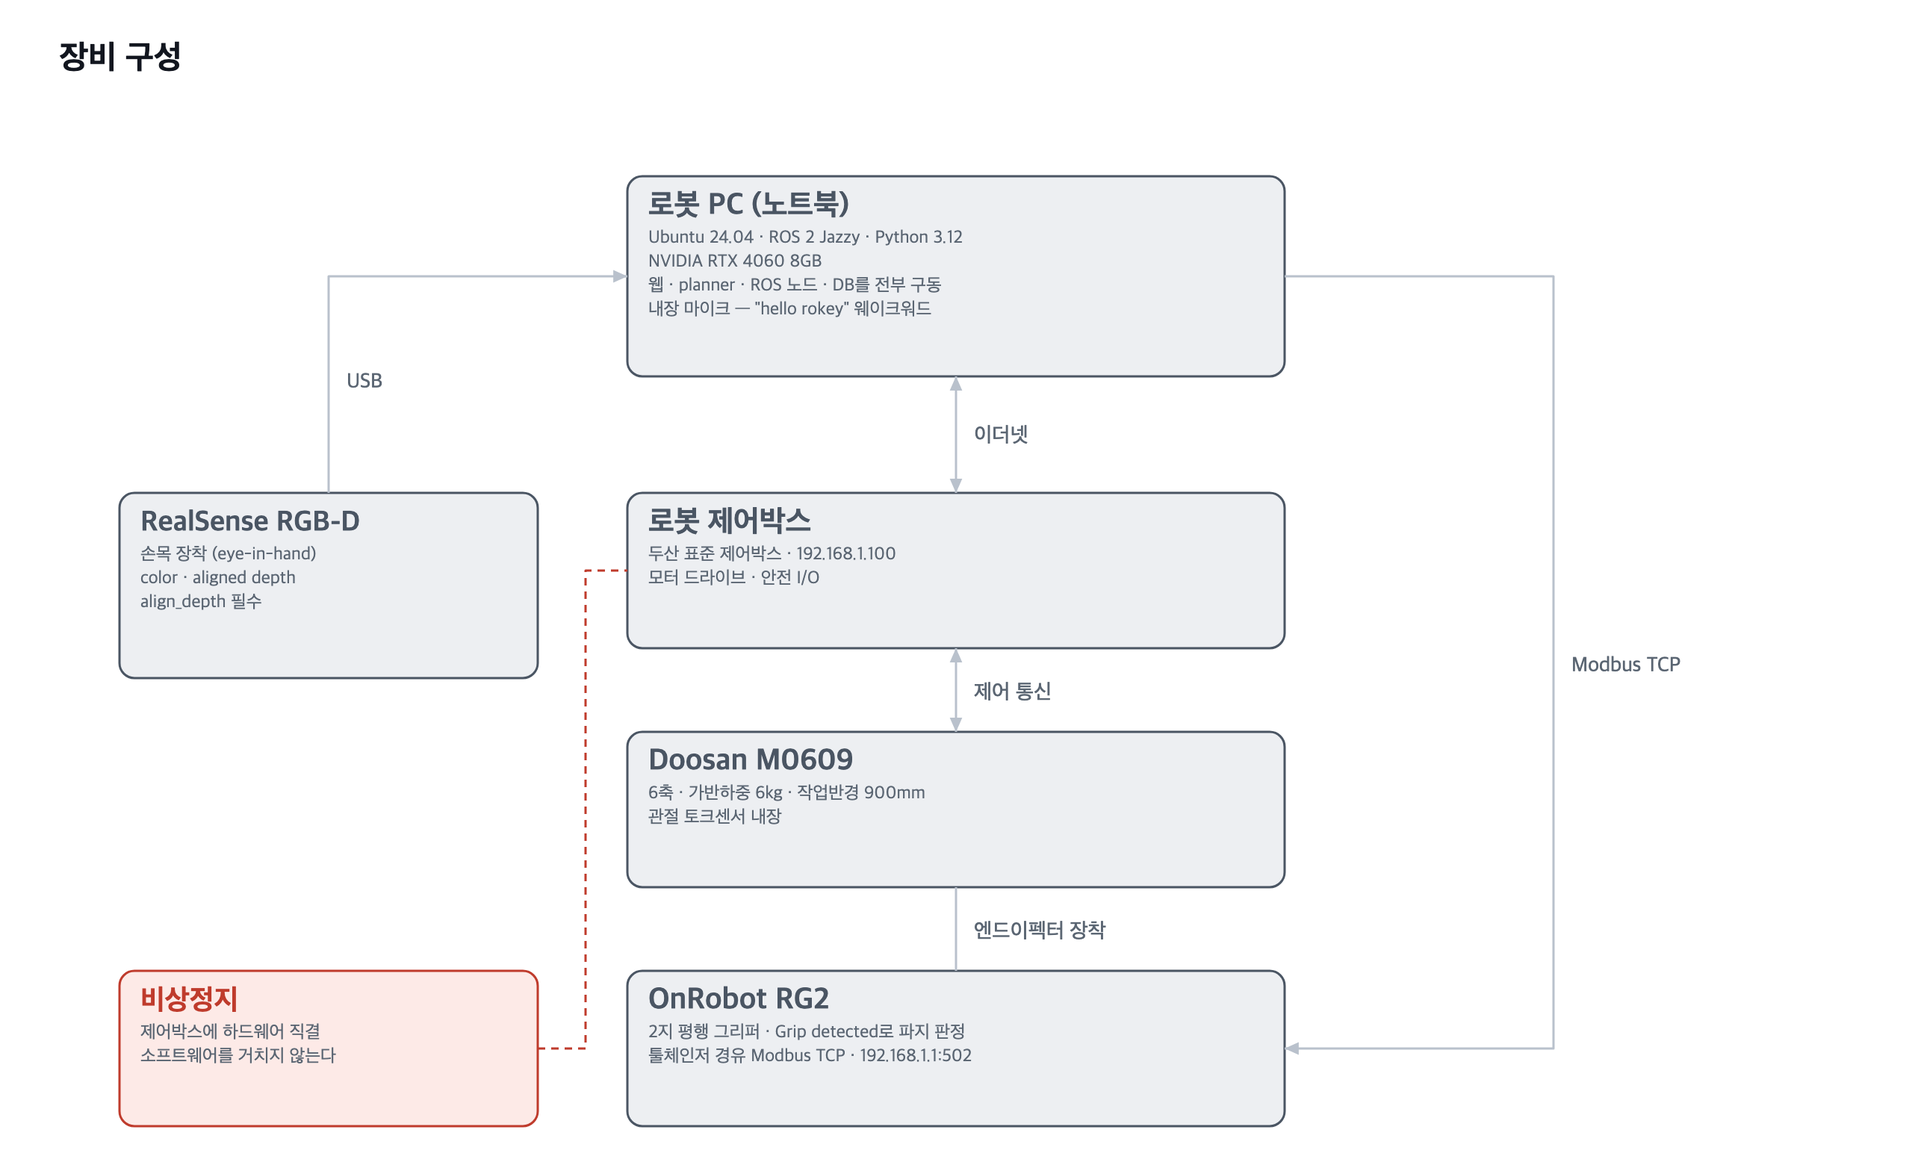
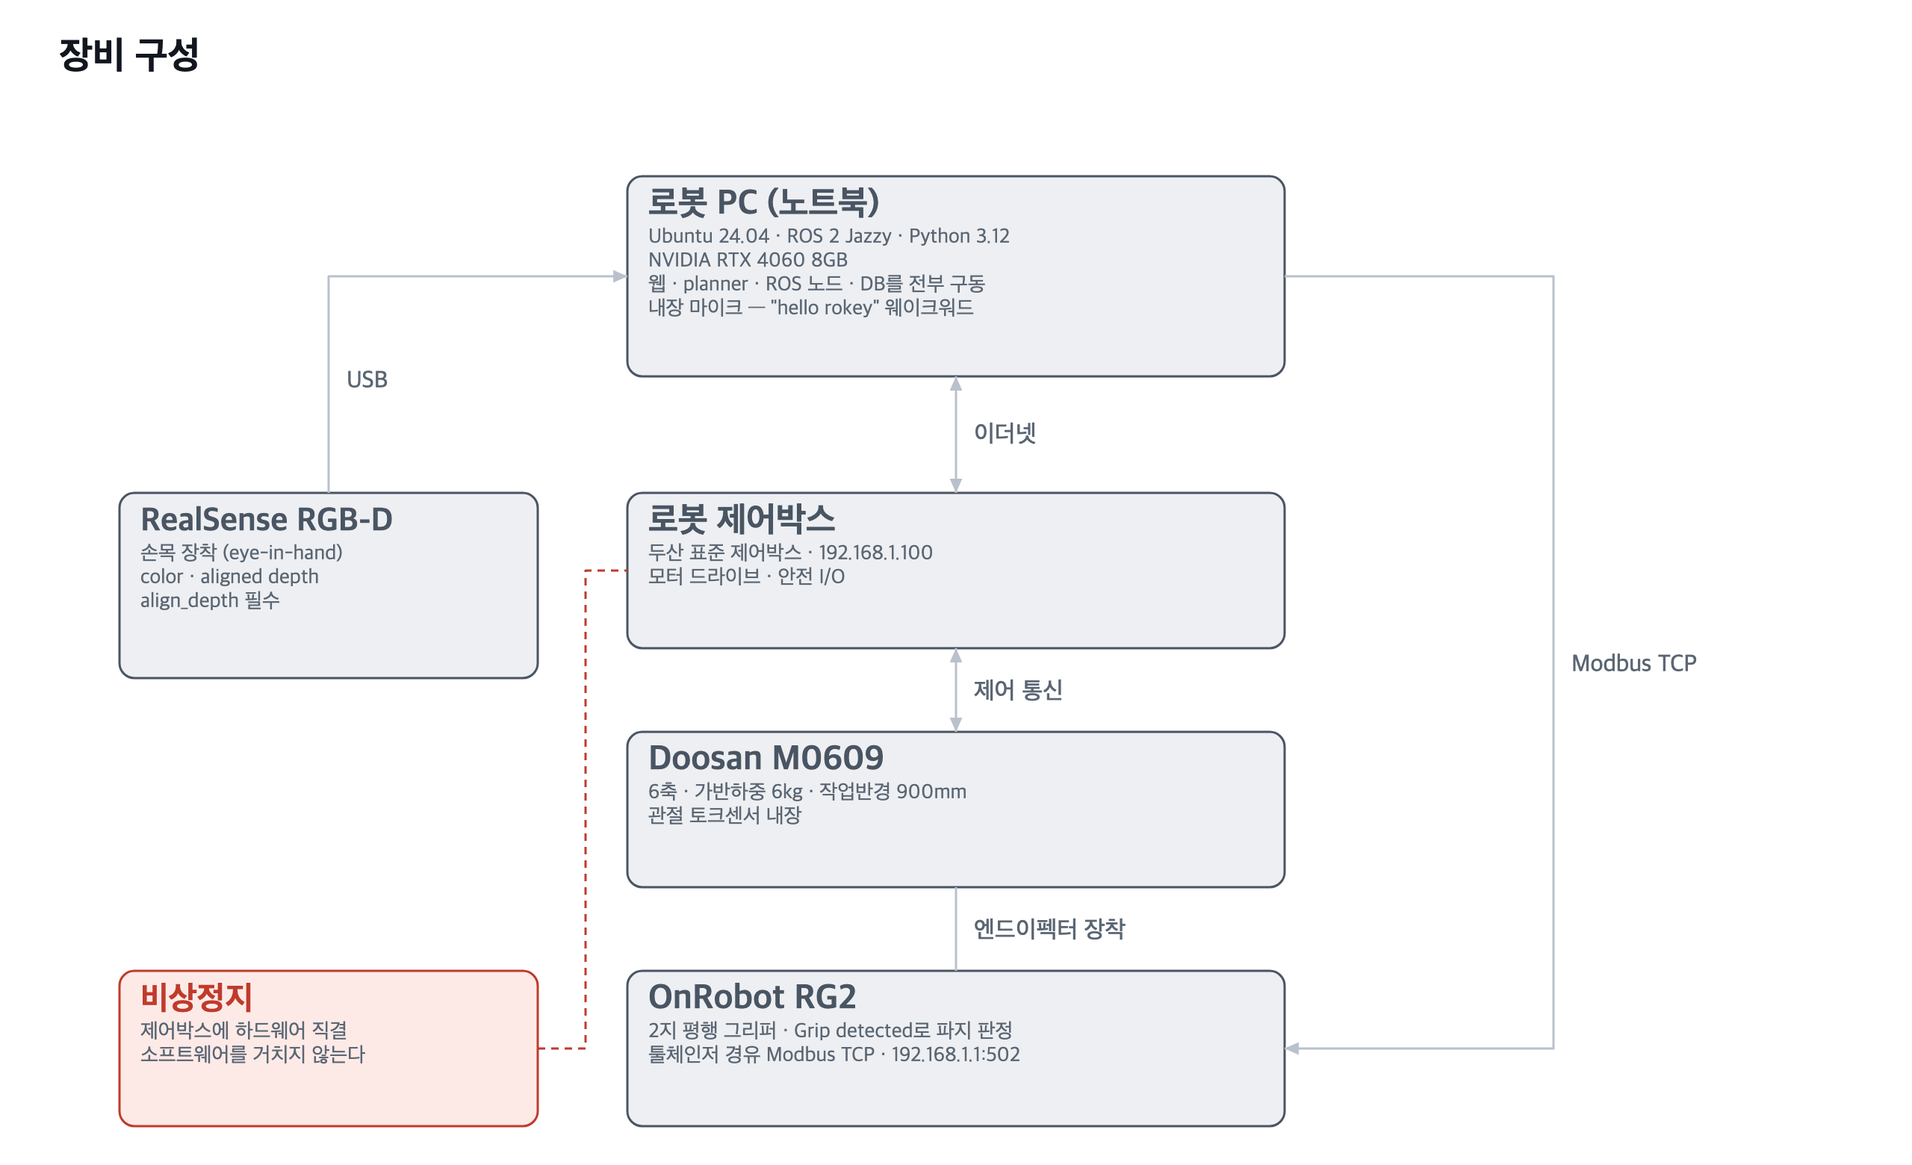
docs: 다이어그램 6종 글씨를 키우고 작업 셀 배치를 다시 그린다
- 전체 폰트에 1.15배 스케일을 적용해 README에서 작게 보이던 문제를 고친다.
- 작업 셀 배치: 오른쪽 박스를 왼쪽 박스 바로 위로 쌓아 한 열에 두고, 작업대는
  그만큼 넓어진 세로 공간을 쓴다.
- 파지력 표에서 g4 예외(10N) 빨간 글씨와 로봇 작업반경 점선 설명을 뺀다.
- 작업물 패널을 YOLO11-seg 7클래스 표와 SAM+VLM(클래스 무관, 전부 인지) 두 박스로 나눈다.

diff --git a/tools/scripts/make_diagrams.py b/tools/scripts/make_diagrams.py
@@ -53,6 +53,12 @@ NEUTRAL = ("#9aa2ad", "#fbfcfd")
 
 EXT_DASH = "5 4"
 
+# 그림이 README에서 작게 나온다는 피드백에 따라 전 요소 폰트를 한 단계 키운다.
+# text_w()로 배경판·배지 폭을 재는 4곳(box 배지, label, legend, operation_flow 알약)은
+# Svg.text()가 내부에서 이 배율을 적용하기 전의 크기로 재므로, 그 4곳만 별도로
+# size * FONT_SCALE을 넘겨 폭 계산을 렌더 크기와 맞춘다.
+FONT_SCALE = 1.15
+
 
 # --- SVG 조립 ---------------------------------------------------------------
 
@@ -87,6 +93,7 @@ class Svg:
 
     def text(self, x, y, s, *, size=14, fill=INK, weight=400, anchor="start",
              family=FONT, spacing=0.0, opacity=1.0):
+        size = size * FONT_SCALE
         ls = f' letter-spacing="{spacing}"' if spacing else ""
         self.add(f'<text x="{x}" y="{y}" font-family="{family}" font-size="{size}" '
                  f'font-weight="{weight}" fill="{fill}" text-anchor="{anchor}"'
@@ -116,7 +123,7 @@ class Svg:
         for i, ln in enumerate(lines):
             self.text(tx, ty + 19 + i * 16, ln, size=12, fill=MUTED, anchor=anchor)
         if badge:
-            bw = text_w(badge, 11) + 14
+            bw = text_w(badge, 11 * FONT_SCALE) + 14
             self.rect(x + w - bw - 10, y + 9, bw, 18, stroke=stroke, fill="#ffffff", r=9,
                       sw=1.0)
             self.text(x + w - bw / 2 - 10, y + 22, badge, size=11, fill=stroke,
@@ -125,9 +132,10 @@ class Svg:
     def label(self, x, y, s, *, size=11.5, fill=MUTED, pad=5, anchor="middle",
               weight=500):
         """선 위에 얹는 라벨. 선을 가리도록 흰 판을 먼저 깐다."""
-        w = text_w(s, size) + pad * 2
+        eff = size * FONT_SCALE
+        w = text_w(s, eff) + pad * 2
         left = {"middle": x - w / 2, "start": x - pad, "end": x - w + pad}[anchor]
-        self.rect(left, y - size, w, size + 8, stroke="none", fill=BG, r=4, sw=0)
+        self.rect(left, y - eff, w, eff + 8, stroke="none", fill=BG, r=4, sw=0)
         self.text(x, y, s, size=size, fill=fill, anchor=anchor, weight=weight)
 
     def arrow(self, pts, *, stroke=LINE, sw=1.5, dash=None, head="end", label=None,
@@ -183,7 +191,7 @@ def legend(svg: Svg, x, y, items) -> None:
         svg.rect(cx, y - 9, 12, 12, stroke=stroke, fill=fill, r=3, sw=1.3,
                  dash=EXT_DASH if color is EXT else None)
         svg.text(cx + 18, y + 1, text, size=11.5, fill=MUTED)
-        cx += 18 + text_w(text, 11.5) + 22
+        cx += 18 + text_w(text, 11.5 * FONT_SCALE) + 22
 
 
 # --- 1. 시스템 아키텍처 ------------------------------------------------------
@@ -405,7 +413,7 @@ def diagram_operation_flow() -> Svg:
         s.box(40, y, 210, 66, name, [f"{owner} 액션 서버"], color=color, title_size=19)
         x = 282
         for i, ph in enumerate(phases):
-            pw = text_w(ph, 15) + 38
+            pw = text_w(ph, 15 * FONT_SCALE) + 38
             s.rect(x, y + 6, pw, 52, stroke=stroke, fill="#ffffff", r=26, sw=1.6)
             s.text(x + pw / 2, y + 39, ph, size=15, fill=stroke, anchor="middle",
                    family=MONO)
@@ -494,14 +502,14 @@ OBJECTS = [
     ("섬유탈취제", "fabric_spray", 3), ("젤네일", "gel_nail", 3),
 ]
 
-# 파지력 5단계. 단계 정의(단조 감소)는 objects.yaml, 실제로 control이 거는 힘은
-# skill_params.yaml이 소유한다 — g4만 두 값이 다르다(아래 note 참조).
+# 파지력 5단계. 단계 정의(단조 감소)는 objects.yaml이 소유한다 — 실제로 control이
+# 거는 힘(skill_params.yaml)은 g4만 25N이 아니라 10N이지만, 그 예외는 그림에 적지 않는다.
 GRIP_LEVELS = [
-    ("g1", "40N", "가장 강하게", None),
-    ("g2", "35N", "강하게", None),
-    ("g3", "30N", "보통", None),
-    ("g4", "25N", "약하게", "control은 10N"),
-    ("g5", "20N", "가장 약하게 · 신규 클래스 기본값", None),
+    ("g1", "40N", "가장 강하게"),
+    ("g2", "35N", "강하게"),
+    ("g3", "30N", "보통"),
+    ("g4", "25N", "약하게"),
+    ("g5", "20N", "가장 약하게 · 신규 클래스 기본값"),
 ]
 
 
@@ -510,83 +518,76 @@ def diagram_cell_layout() -> Svg:
 
     좌표를 그대로 찍은 평면도였다가 바꿨다. 목적지의 정확한 좌표는 bins.yaml이 정본이고,
     이 그림이 답해야 하는 것은 "무엇이 어디 있고 무엇을 어디로 옮기는가"다.
+    오른쪽 박스를 왼쪽 박스 바로 위에 쌓아 두 목적지가 한 열에 있게 하고, 작업대는
+    그만큼 넓어진 오른쪽 공간을 세로로 길게 쓴다.
     """
-    s = Svg(1280, 780)
+    s = Svg(1280, 850)
     title(s, "작업 셀 배치 · 작업물")
 
-    s.panel(60, 104, 700, 640)
+    s.panel(60, 104, 700, 700)
 
-    # 로봇 — 왼쪽 위
-    rx, ry = 210, 250
-    s.add(f'<circle cx="{rx}" cy="{ry}" r="46" fill="{HW[1]}" stroke="{HW[0]}" '
+    # 로봇 — 왼쪽 위, 두 박스가 쌓인 열 위쪽
+    rx, ry = 210, 210
+    s.add(f'<circle cx="{rx}" cy="{ry}" r="44" fill="{HW[1]}" stroke="{HW[0]}" '
           f'stroke-width="2"/>')
-    s.text(rx, ry + 7, "M0609", size=17, fill=HW[0], anchor="middle", weight=700)
-    # 라벨을 원 위에 둔다 — 아래에 두면 작업대로 가는 점선이 글씨를 가로지른다.
-    s.text(rx, ry - 68, "6축 협동로봇 + RG2", size=14, fill=MUTED, anchor="middle")
+    s.text(rx, ry + 6, "M0609", size=17, fill=HW[0], anchor="middle", weight=700)
+    s.text(rx, ry - 62, "6축 협동로봇 + RG2", size=14, fill=MUTED, anchor="middle")
 
-    # 오른쪽 박스 — 오른쪽 위
-    s.rect(470, 150, 250, 150, stroke=PERCEPTION[0], fill=PERCEPTION[1], r=12, sw=2)
-    s.text(595, 212, "오른쪽 박스", size=19, fill=PERCEPTION[0], anchor="middle",
+    # 오른쪽 박스 — 왼쪽 열 위칸
+    s.rect(90, 290, 260, 160, stroke=PERCEPTION[0], fill=PERCEPTION[1], r=12, sw=2)
+    s.text(220, 358, "오른쪽 박스", size=19, fill=PERCEPTION[0], anchor="middle",
            weight=700)
-    s.text(595, 240, "right_box", size=14, fill=PERCEPTION[0], anchor="middle",
+    s.text(220, 386, "right_box", size=14, fill=PERCEPTION[0], anchor="middle",
            family=MONO)
 
-    # 작업대 — 오른쪽 아래, 위에 물체 여러 개
-    s.rect(400, 360, 330, 350, stroke=HW[0], fill="#f4f2ee", r=12, sw=2)
-    s.text(420, 392, "작업대", size=18, fill=HW[0], weight=700)
-    cols, cw, ch = 2, 145, 56
+    # 왼쪽 박스 — 왼쪽 열 아래칸, 오른쪽 박스 바로 아래
+    s.rect(90, 480, 260, 160, stroke=GRASP[0], fill=GRASP[1], r=12, sw=2)
+    s.text(220, 548, "왼쪽 박스", size=19, fill=GRASP[0], anchor="middle", weight=700)
+    s.text(220, 576, "left_box", size=14, fill=GRASP[0], anchor="middle", family=MONO)
+
+    # 작업대 — 오른쪽 열 전체, 위에 물체 여러 개
+    s.rect(400, 150, 330, 610, stroke=HW[0], fill="#f4f2ee", r=12, sw=2)
+    s.text(420, 182, "작업대", size=18, fill=HW[0], weight=700)
+    cols, cw, ch = 2, 150, 64
     for i, (ko, en, _lvl) in enumerate(OBJECTS):
-        ox = 420 + (i % cols) * (cw + 14)
-        oy = 414 + (i // cols) * (ch + 12)
+        ox = 420 + (i % cols) * (cw + 16)
+        oy = 214 + (i // cols) * (ch + 16)
         s.rect(ox, oy, cw, ch, stroke=NEUTRAL[0], fill="#ffffff", r=9, sw=1.4)
-        s.text(ox + cw / 2, oy + 24, ko, size=15, fill=INK, anchor="middle")
-        s.text(ox + cw / 2, oy + 43, en, size=11.5, fill=MUTED, anchor="middle",
+        s.text(ox + cw / 2, oy + 27, ko, size=15, fill=INK, anchor="middle")
+        s.text(ox + cw / 2, oy + 47, en, size=11.5, fill=MUTED, anchor="middle",
                family=MONO)
 
-    # 왼쪽 박스 — 왼쪽 아래
-    s.rect(100, 520, 250, 150, stroke=GRASP[0], fill=GRASP[1], r=12, sw=2)
-    s.text(225, 582, "왼쪽 박스", size=19, fill=GRASP[0], anchor="middle", weight=700)
-    s.text(225, 610, "left_box", size=14, fill=GRASP[0], anchor="middle", family=MONO)
-
-    # 집어서 분류한다
-    s.arrow([(400, 470), (360, 470), (360, 560), (350, 560)], sw=1.8)
-    s.label(330, 500, "분류", size=14)
-    s.arrow([(560, 360), (560, 300)], sw=1.8)
-    s.label(572, 336, "분류", size=14, anchor="start")
-    s.arrow([(256, 250), (470, 200)], head="none", dash="5 4")
-    s.arrow([(250, 285), (420, 400)], head="none", dash="5 4")
-    s.arrow([(230, 296), (225, 520)], head="none", dash="5 4")
-    s.text(78, 726, "점선 = 로봇 작업반경 안. 실제 좌표·바닥 높이는 bins.yaml 실측값을 쓴다.",
-           size=13.5, fill=MUTED)
+    # 집어서 분류한다 — 두 박스가 나란한 열이라 직선 화살표로 충분하다.
+    s.arrow([(400, 370), (350, 370)], sw=1.8, label="분류")
+    s.arrow([(400, 560), (350, 560)], sw=1.8, label="분류")
 
     # 오른쪽 — 작업물과 파지력
-    s.panel(790, 104, 450, 330, "작업물 — YOLO11-seg 7클래스")
-    yy = 158
+    s.panel(790, 104, 450, 266, "작업물 — YOLO11-seg 7클래스(등록 어휘)")
+    yy = 160
     for ko, en, level in OBJECTS:
         s.text(816, yy, ko, size=15, fill=INK)
         s.text(940, yy, en, size=13, fill=MUTED, family=MONO)
         s.rect(1168, yy - 15, 40, 22, stroke=CONTROL[0], fill=CONTROL[1], r=11, sw=1.3)
         s.text(1188, yy + 1, f"g{level}", size=13, fill=CONTROL[0], anchor="middle",
                weight=600, family=MONO)
-        yy += 36
-    s.text(816, 414, "SAM+VLM 경로는 이 목록을 보지 않는다 — 처음 보는 물건도 인지한다.",
-           size=13, fill=MUTED)
+        yy += 30
 
-    s.panel(790, 460, 450, 284, "파지력 — 5단계 grip_level")
-    yy = 514
-    for tag, force, note, exc in GRIP_LEVELS:
+    s.panel(790, 384, 450, 140, "SAM+VLM — 미등록 물체도 전부 인지")
+    s.text(816, 444, "등록 어휘·클래스와 무관하게, 사진을 본 VLM이 이름·재질·",
+           size=13.5, fill=MUTED)
+    s.text(816, 464, "파지 단계를 그 자리에서 판단한다 — 처음 보는 물체도 예외",
+           size=13.5, fill=MUTED)
+    s.text(816, 484, "없이 대상이 된다.", size=13.5, fill=MUTED)
+
+    s.panel(790, 544, 450, 260, "파지력 — 5단계 grip_level")
+    yy = 598
+    for tag, force, note in GRIP_LEVELS:
         s.text(816, yy, tag, size=15, fill=CONTROL[0], family=MONO, weight=700)
         s.text(860, yy, force, size=15, fill=INK, family=MONO)
         s.text(920, yy, note, size=13.5, fill=MUTED)
-        if exc:
-            s.text(1232, yy, exc, size=12.5, fill=DANGER[0], anchor="end")
         yy += 34
-    s.text(816, 692, "1이 가장 강하고 5가 가장 약하다(objects.yaml).", size=13,
+    s.text(816, yy + 16, "1이 가장 강하고 5가 가장 약하다(objects.yaml).", size=13,
            fill=MUTED)
-    s.text(816, 714, "g4만 예외로 control이 10N을 건다 — 무른 물체는 25N에 걸리기 전에",
-           size=13, fill=DANGER[0])
-    s.text(816, 732, "눌려버려 Grip detected가 안 켜졌다(skill_params.yaml).", size=13,
-           fill=DANGER[0])
     return s
 
 

diff --git a/README.md b/README.md
@@ -5,12 +5,11 @@
 - **목표**: 품목이 바뀔 때마다 재티칭·재프로그래밍하는 비용을 없애는 것.  
 사람이 말이나 글로 내린 지시를 로봇이 그대로 해석해 물체를 골라 집고 지정한 곳에 놓는다.
 - **주요 기능**: 도메인(가정·약국·재활용)을 고른 뒤 명령을 넣으면 관측 → LLM 계획 →
-  결정적 검증 → 사람 승인 → `pick` → `place_into`가 이어진다.
+  검증 → 사용자 승인 → `pick` → `place_into`가 이어진다.  
   등록 어휘가 없는 물체도 SAM+VLM 경로로 인지하고 실행 결과와 라벨은 데이터셋·실행 로그로 쌓인다
 - **사용 장비**: Doosan M0609 (6축 협동로봇), OnRobot RG2 그리퍼, RealSense RGB-D (eye-in-hand)
 - **개발 환경**: Ubuntu 24.04 LTS, ROS 2 Jazzy, Docker Compose
-- **주요 기술 스택**: ROS 2, FastAPI + rclpy 브리지, React (Vite/TypeScript), PostgreSQL 16, 
-OpenAI API (LLM/VLM), YOLO11-seg · SAM2, GraspNet-baseline
+- **주요 기술 스택**: ROS 2, FastAPI + rclpy 브리지, React (Vite/TypeScript), PostgreSQL 16, OpenAI API (LLM/VLM), YOLO11-seg · SAM2, GraspNet-baseline
 - **기간**: 2026.09.01 ~ 2026.09.11
 
 ## 1. 시스템 설계
@@ -58,7 +57,7 @@ HTTP      web      :8000  /api/* · /ws/live
 | `place_into` | 같은 스텝을 새 `request_id`로 재전송(로봇이 이미 물체를 쥐고 있어 재계획할 것이 없다) | 재시도 2회 |
 
 - 후보 선택의 최종 결정권은 `control`에 있다. `planner`는 점수 내림차순 후보 전체를
-  실려 보내고, 개폭 유효성·IK·관절 한계·접근 적합도는 로봇에 붙어 있어야 답할 수 있으므로
+  실려 보내고 개폭 유효성·IK·관절 한계·접근 적합도는 로봇에 붙어 있어야 답할 수 있으므로
   `control/grasp_selection.py`가 고른다.
 - 파지 성공 판정은 개폭 추정이 아니라 RG2 컨트롤러의 `Grip detected` 비트를 쓴다.
   변형체를 제대로 물어도 개폭이 끝까지 닫히는 경우가 있기 때문이다.
@@ -80,7 +79,7 @@ HTTP      web      :8000  /api/* · /ws/live
 ### 워크스페이스 배치
 
 이 저장소는 **두산 드라이버 워크스페이스와 별도**다. 드라이버(`dsr_*`, `onrobot_*`)는
-`~/cobot2_ws`에 있고, 컨테이너는 거기서 메시지 패키지만 읽기 전용으로 마운트해 쓴다
+`~/cobot2_ws`에 있고 컨테이너는 거기서 메시지 패키지만 읽기 전용으로 마운트해 쓴다
 (`DOOSAN_WS_DIR`).
 
 ```text
@@ -118,31 +117,17 @@ PiecePickingSystem/          # ROS2 컨테이너 안에서는 /ros2_ws
 | 로봇 PC | Ubuntu 24.04 · RTX 4060 8GB | 웹·planner·ROS 노드·DB를 전부 구동 |
 | 마이크 | 노트북 내장 마이크 | "hello rokey" 웨이크워드 감지용(`tools/voice/wakeword_bridge.py`) |
 
-- 카메라가 그리퍼에 붙어 있어 좌표 변환이 매 프레임 TCP 자세에 따라 달라진다:
-  `T_base_camera = posx_to_matrix(get_current_posx()) @ T_gripper2camera`.
-- `T_gripper2camera`는 **컨트롤러에 TCP(`GripperDA_v1`)가 선택돼 있는 상태**로 풀려 있다.
-  TCP가 풀리면 좌표 전체가 조용히 약 208mm 어긋난다 — 상태바의 TCP 표시가 그것을 본다.
-  전말은 `docs/problem/2026-09-07-grasp-coordinate-offset.md`에 있다.
+- TCP가 풀리면 좌표 전체가 약 208mm 어긋난다(RG-2 그리퍼 기준)
 
 ### 4.2 작업대 · 작업물
 
 ![작업 셀 배치](https://raw.githubusercontent.com/Haeyuni/PiecePickingSystem/main/docs/diagrams/cell_layout.png)
 
-| 구성 | 값 | 비고 |
-|---|---|---|
-| 목적지 | `left_box`(왼쪽 박스) · `right_box`(오른쪽 박스) | 좌표·상단 내부 모서리 4점·바닥점을 실측해 `src/control/config/bins.yaml`에 고정 |
-| 작업물 (YOLO 경로) | 치약 · 물티슈 · 선크림 · 토끼 인형 · 접이 우산 · 섬유탈취제 · 젤네일 | `models/best.pt`(yolo11n-seg, 7클래스)와 `src/perception/config/objects.yaml`이 1:1 |
-| 작업물 (SAM+VLM 경로) | 제한 없음 | 등록 어휘를 보지 않고 사진을 본 VLM이 이름·속성·파지 단계를 함께 답한다 |
-
-파지력은 힘(N)이 아니라 **5단계 `grip_level`**로 전달한다(1=가장 강하게 40N ~
-5=가장 약하게 20N). 단계→힘 매핑은 `objects.yaml`과 `skill_params.yaml`이 소유하고,
-LLM·VLM은 단계 번호만 고른다. 미확인 신규 클래스는 5로 강제한다.
-
 ## 5. 의존성
 
 ### 5.1 ROS 2 (rosdep)
 
-각 패키지 `package.xml`에 선언돼 있다. 컨테이너로 돌리면 이미지가 알아서 챙기고,
+각 패키지 `package.xml`에 선언돼 있다. 컨테이너로 돌리면 이미지가 알아서 챙기고
 호스트에서 직접 빌드할 때만 필요하다.
 
 ```bash
@@ -157,12 +142,6 @@ rosdep install --from-paths src --ignore-src -r -y
 | `control` | `rclpy`, `sensor_msgs`, `geometry_msgs`, `sort_msgs`, `perception_common`, `dsr_msgs2`, `onrobot_rg_msgs` |
 | `web` | `rclpy`, `sort_msgs` (`MOCK_MODE=0`일 때만 로드) |
 | `perception_common` | `sensor_msgs`, `dsr_msgs2` |
-
-외부 워크스페이스(`~/cobot2_ws`)에서 온다: `dsr_msgs2`(`get_current_posx`·`ikin`·
-`MovejH2r`/`MovelH2r` 등)와 `onrobot_rg_msgs`(`SetCommand`·`GripperPose`)는 이미지에
-굽지 않고 `/doosan_ws`·`/onrobot_ws`로 읽기 전용 마운트한다 — 드라이버 버전이 올라가도
-이미지를 다시 만들 이유가 없게. 드라이버 자체(`m0609_rg2_bringup`)는 컨테이너가 아니라
-호스트에서 띄운다(6절 1단계).
 
 ### 5.2 서비스 — pip
 
@@ -223,7 +202,7 @@ tools/scripts/run_bringup.sh start mode:=real host:=192.168.1.100
 tools/scripts/run_bringup.sh status     # SCHED_FIFO 적용 여부까지 본다
 ```
 
-`ros2 launch m0609_rg2_bringup bringup.launch.py`를 직접 치는 것과 같은 일을 하되,
+`ros2 launch m0609_rg2_bringup bringup.launch.py`를 직접 치는 것과 같은 일을 하되
 `setsid`로 별도 세션에 띄워 **터미널의 Ctrl+C나 창 닫기로 드라이버가 죽지 않게** 한다.
 끄는 것은 `run_bringup.sh stop`이다.
 
@@ -242,7 +221,7 @@ ros2 launch realsense2_camera rs_launch.py align_depth.enable:=true
 FAKE_ROBOT=0 docker compose up -d db planner perception graspnet grasp control
 ```
 
-`FAKE_ROBOT`은 `control`이 읽는다 — 기본값 `1`은 로봇 없이 도는 모의 실행이라, **실물에
+`FAKE_ROBOT`은 `control`이 읽는다 — 기본값 `1`은 로봇 없이 도는 모의 실행이라 **실물에
 붙일 때 `0`을 빠뜨리면 로봇이 움직이지 않는데 성공만 돌아온다.**
 
 | 서비스 | 포트 | 비고 |
@@ -282,8 +261,7 @@ python3 tools/voice/wakeword_bridge.py
 
 로봇 PC 마이크로 "hello rokey"를 듣고 web에 알린다. 브라우저 SpeechRecognition은
 사전에 없는 단어를 신뢰성 있게 못 잡아 이 방식으로 대체했다. 드라이버처럼 계속 떠 있는
-프로세스이고 사용자가 직접 띄우고 끈다 — 참조하는 openwakeword 모델은 이 저장소가
-관리하지 않는 로봇 PC 로컬 자산이라 자동 기동에 넣지 않았다.
+프로세스이고 사용자가 직접 띄우고 끈다.
 
 ### 실행 순서 요약
 
@@ -314,7 +292,7 @@ cd web/frontend && npm install && npm run dev    # http://localhost:5173
 ```
 
 단위 테스트는 계층마다 도는 자리가 다르다. `planner`는 런타임 이미지에 테스트 의존성을
-더하지 않으려고 stdlib `unittest`만 쓰고, `control`/`grasp`는 rclpy와 `sort_msgs`가 필요해
+더하지 않으려고 stdlib `unittest`만 쓰고 `control`/`grasp`는 rclpy와 `sort_msgs`가 필요해
 컨테이너 안에서 돈다.
 
 ```bash
@@ -364,4 +342,4 @@ cd web/frontend && npm run build
 | [`docs/environment.md`](docs/environment.md) | 런타임·CUDA/PyTorch 버전 고정 근거 |
 | [`docs/problem/`](docs/problem) | 실물에서 겪은 문제의 원인 분석 |
 | [`docs/results/`](docs/results) | 단계별 실험 리포트 |
-| [`docs/diagrams/`](docs/diagrams) | 위 그림 6장. `tools/scripts/make_diagrams.py`가 만든다 — 손으로 그리지 않는다 |
+| [`docs/diagrams/`](docs/diagrams) | 위 그림 6장. `tools/scripts/make_diagrams.py`가 만든다 |
